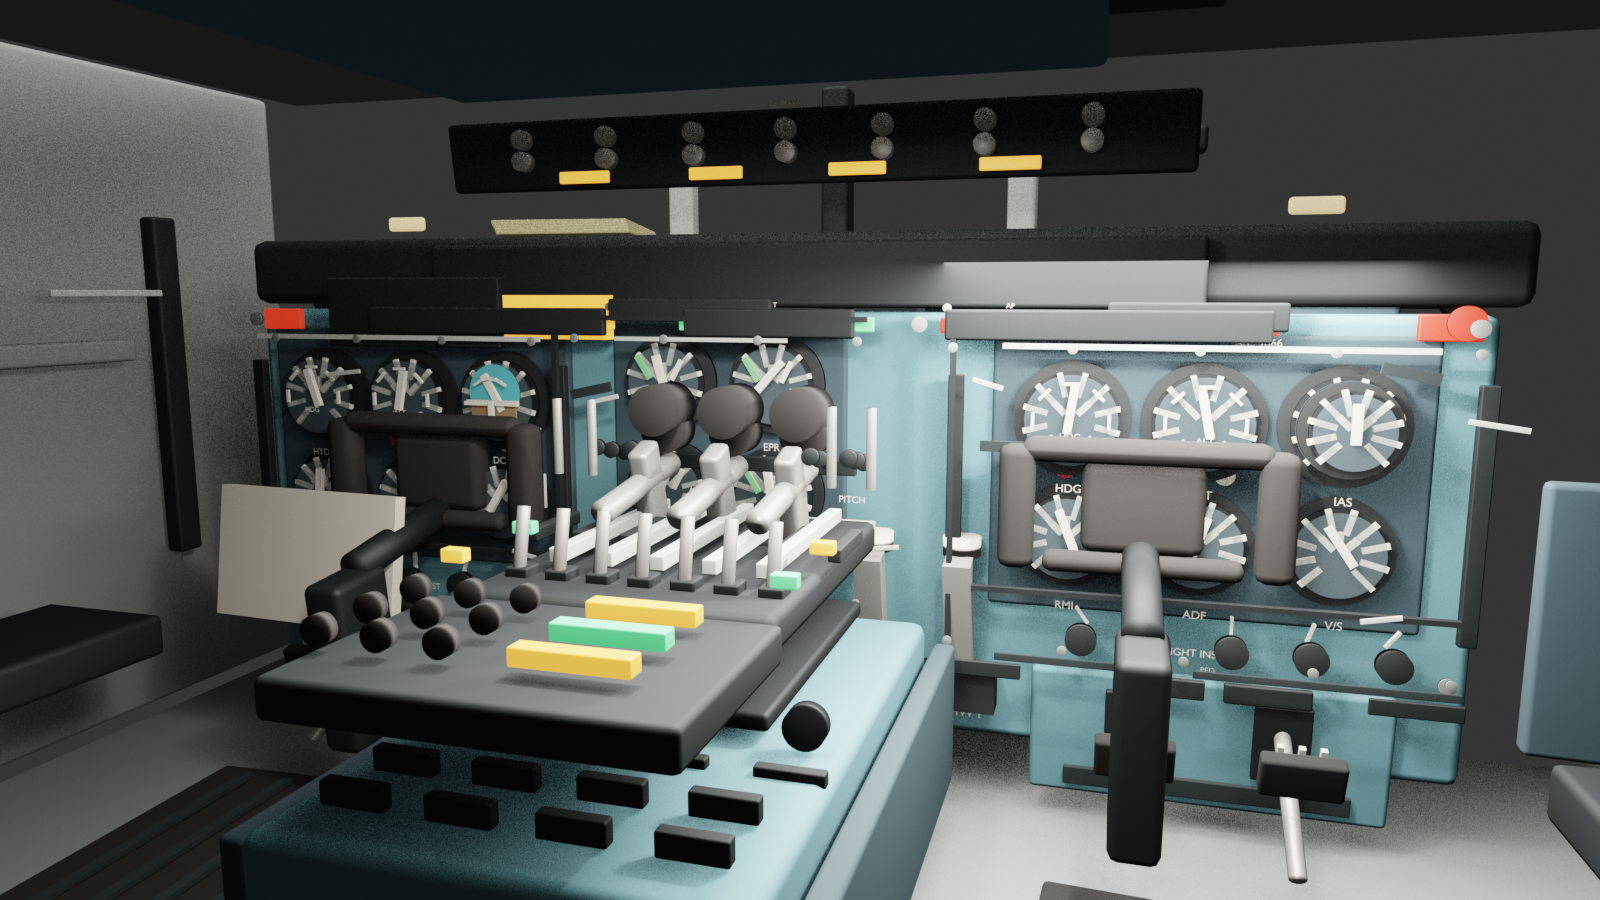
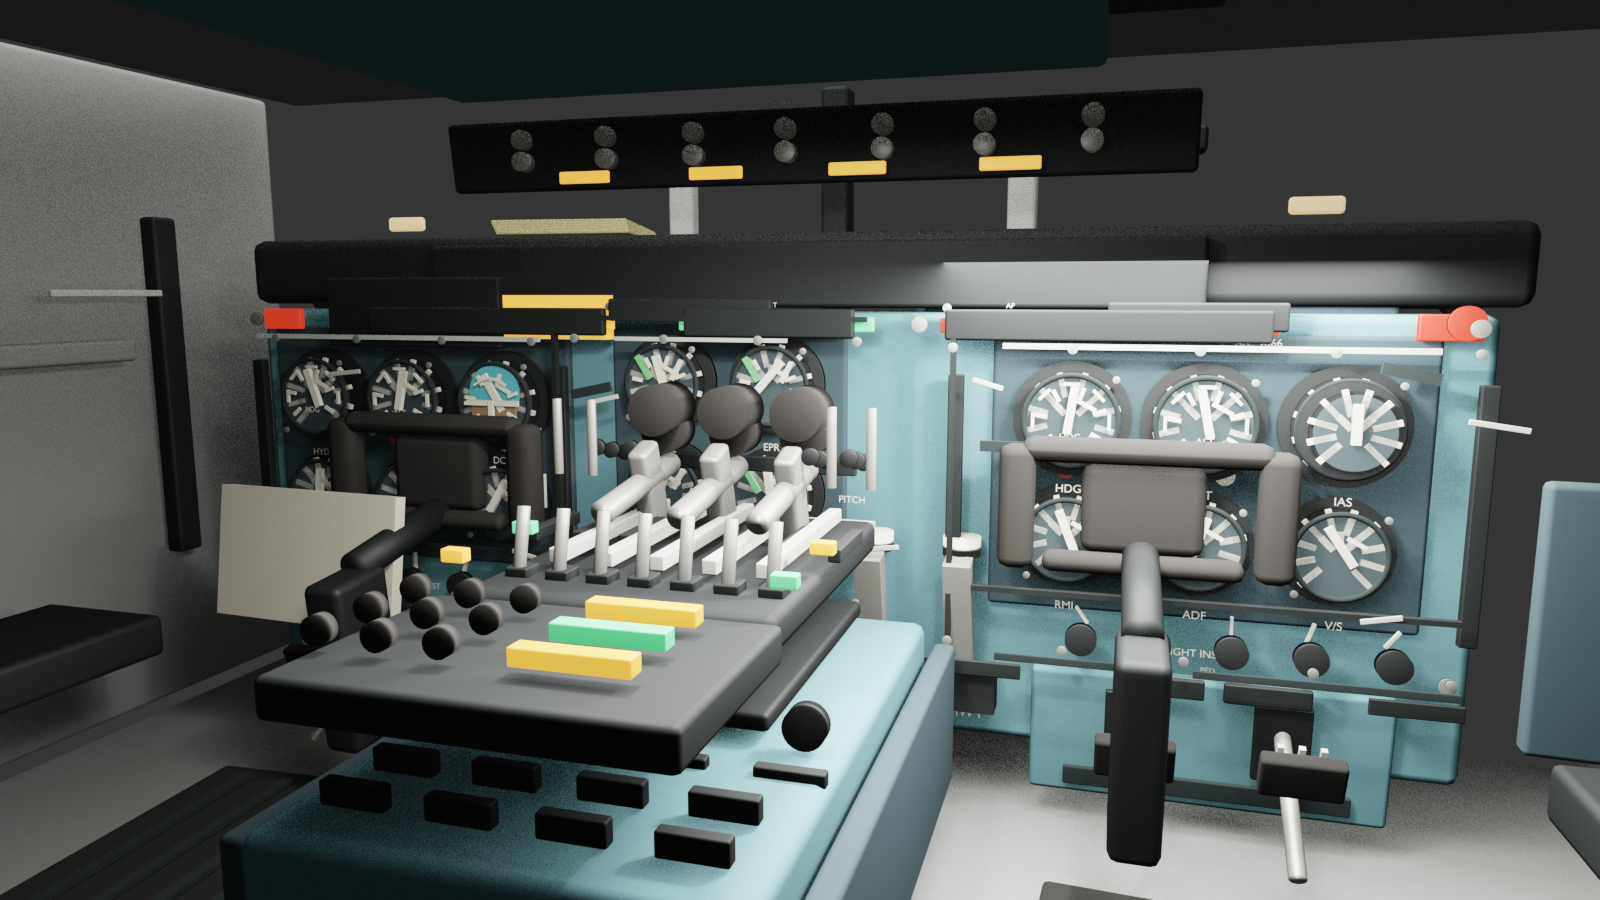
Add DC-9 gauge depth cues

diff --git a/tools/blender/create_dc9_pipeline_proof.py b/tools/blender/create_dc9_pipeline_proof.py
@@ -195,6 +195,51 @@ def add_instrument_face_detail(parent, mat_sky, mat_ground, mat_tick, mat_needle
         cube(f"DC9_ENGINE_GAUGE_WHITE_INDEX_{idx:02d}", parent, (x - 0.045, -0.819, z + 0.035), (0.012, 0.007, 0.054), mat_tick, (0, math.radians(-28), 0))
 
 
+def add_gauge_depth_and_glass_detail(parent, gauge_specs, mat_shadow, mat_tick, mat_glint, mat_screw):
+    for idx, (x, y, z, radius) in enumerate(gauge_specs):
+        lip = torus(
+            f"DC9_GAUGE_INNER_SHADOW_LIP_{idx:02d}",
+            parent,
+            (x, y + 0.069, z),
+            mat_shadow,
+            major=radius * 0.78,
+            minor=0.006,
+            rot=(math.pi / 2, 0, 0),
+        )
+        lip["detail_role"] = "primary_reference_recessed_gauge_depth"
+        glint = cube(
+            f"DC9_GAUGE_GLASS_GLINT_{idx:02d}",
+            parent,
+            (x - radius * 0.25, y + 0.075, z + radius * 0.28),
+            (radius * 0.36, 0.005, 0.009),
+            mat_glint,
+            (0, math.radians(-28), 0),
+        )
+        glint["detail_role"] = "subtle_gauge_glass_response"
+        for screw_idx, (sx, sz) in enumerate([(-0.72, 0.72), (0.72, -0.72)]):
+            screw = cylinder(
+                f"DC9_GAUGE_BEZEL_SCREW_{idx:02d}_{screw_idx:02d}",
+                parent,
+                (x + sx * radius, y + 0.073, z + sz * radius),
+                0.008,
+                0.006,
+                mat_screw,
+                12,
+            )
+            screw["detail_role"] = "primary_reference_gauge_bezel_fastener"
+        if idx in {0, 1, 2, 6, 7, 10, 11, 12}:
+            for mark_idx, angle_deg in enumerate([-120, -70, -20, 30, 80, 130]):
+                angle = math.radians(angle_deg)
+                cube(
+                    f"DC9_GAUGE_FINE_RADIAL_MARK_{idx:02d}_{mark_idx:02d}",
+                    parent,
+                    (x + math.sin(angle) * radius * 0.5, y + 0.078, z + math.cos(angle) * radius * 0.5),
+                    (0.009, 0.005, radius * 0.22),
+                    mat_tick,
+                    (0, angle, 0),
+                )
+
+
 def make_switch(name: str, parent, loc, game_id: str, mat_base, mat_handle, mat_tip):
     base = cube(f"{name}_BASE", parent, loc, (0.18, 0.07, 0.1), mat_base)
     base["game_role"] = "switch_base"
@@ -829,11 +874,14 @@ def create_scene() -> None:
         (0.75, -0.895, 0.7), (1.03, -0.895, 0.7), (1.31, -0.895, 0.7),
         (0.75, -0.895, 0.43), (1.03, -0.895, 0.43), (1.31, -0.895, 0.43),
     ]
+    gauge_depth_specs = []
     for idx, pos in enumerate(gauge_positions):
         radius = 0.118 if idx not in {0, 1, 2, 10, 11, 12} else 0.13
         needle_angle = [-28, 12, -8, 34, -18, 22, -42, 16, 8, -24, 30, -12, 18, -32, 26, -6][idx]
         add_gauge(static, f"DC9_ANALOG_GAUGE_{idx:02d}", pos, radius, dark_mat, face_mat, glass_mat, tick_mat, white_mat, needle_angle=needle_angle)
+        gauge_depth_specs.append((*pos, radius))
     add_gauge(static, "DC9_GAUGE_LEGACY_CODE_01", (-1.26, -0.83, 0.7), 0.1, dark_mat, face_mat, glass_mat, tick_mat, white_mat, "dc9.legacy_power.gauge")
+    add_gauge_depth_and_glass_detail(static, gauge_depth_specs, grime_mat, tick_mat, white_mat, screw_mat)
     add_instrument_face_detail(static, attitude_sky_mat, attitude_ground_mat, tick_mat, white_mat, instrument_green_mat)
     add_instrument_labels(static, tick_mat)
 

diff --git a/asset-reports/dc9-pipeline-proof.md b/asset-reports/dc9-pipeline-proof.md
@@ -27,6 +27,7 @@ Date: 2026-06-22
 - Goal-loop local batch 9: 2026-06-22 yoke-detail realism pass added center badges, thumb buttons, extra checklist linework, metal clips, and worn grip-edge highlights to the captain and first-officer yokes. This remains local; no PR update was opened for this individual iteration.
 - Goal-loop local batch 10: 2026-06-22 panel-surface aging pass added a denser fastener grid, chipped-paint slivers, lower-panel grime feathers, and small service placards across the main panel. This remains local; no PR update was opened for this individual iteration.
 - Goal-loop local batch 11: 2026-06-22 glare-shield annunciator/readout pass added segmented noninteractive upper-panel status modules, amber/red lamps, mode buttons, labels, and screw heads. This remains local; no PR update was opened for this individual iteration.
+- Goal-loop local batch 12: 2026-06-22 gauge-depth and glass-response pass added noninteractive inner gauge shadow lips, subtle glass glints, bezel screws, and fine radial marks around the captain, center, and first-officer instrument clusters. This remains local; no PR update was opened for this individual iteration.
 
 ## Asset Contents
 
@@ -62,6 +63,7 @@ Date: 2026-06-22
   - added yoke badges, red/white thumb-button cues, extra checklist markings, metal clips, and worn grip-edge highlights so the yokes look less like plain blockout bars
   - added a restrained fastener grid, panel chips, grime feathers, and service placards so the blue-grey panel surfaces read as aged aircraft hardware instead of clean flat blocks
   - added segmented glare-shield annunciator/status modules with small lamps, mode buttons, labels, and screws so the upper main-panel area reads denser without becoming one flat overlay strip
+  - added inner gauge shadow lips, small glass glints, bezel screw heads, and fine radial marks so the analog instruments read as recessed hardware with glass response instead of flat circles
 
 ## Runtime Contract
 
@@ -86,9 +88,9 @@ Custom properties exported to glTF extras:
 
 ## GLB Inspection
 
-- GLB size: 3,612,316 bytes / 3.44 MiB
-- Node count: 962
-- Mesh count: 951
+- GLB size: 6,107,876 bytes / 5.82 MiB
+- Node count: 1,074
+- Mesh count: 1,063
 - Material count: 30
 - Animation count: 1
 - Camera count: 1
@@ -117,7 +119,7 @@ Results:
 - `gltf-transform validate` reported no errors and no warnings. It reports info-level unused UV attributes and empty hierarchy nodes; these are expected for this named blockout because UVs are reserved for later texture work and empty hierarchy nodes preserve the asset contract.
 - `npm run assets:check` passed.
 - `npm run check` passed as non-mutating validation; browser integration remains Windows-owned.
-- Manual visual inspection of `preview-renders/dc9-captain-approval.png` confirmed a stronger captain-seat read against the primary DC-9-51 cockpit reference: squared yokes with checklist placards, yoke button/detail cues, readable gauge labels, a visible forward-overhead control band, denser instrument panel, colored attitude-indicator cues, busier primary/engine instrument faces, black mechanical pedestal/throttle/radio-stack detail, glareshield controls, segmented glare-shield annunciator/status modules, windshield/wiper/paper-stack reference cues, recessed instrument trays, side paperwork, subtle seat foreground cues, small eyebrow lamps, clearer cockpit enclosure, visible lower kick panels/rudder-pedal cues, floor scuffing, panel fastener/paint-chip/grime variation, and less flat main-panel presentation.
+- Manual visual inspection of `preview-renders/dc9-captain-approval.png` confirmed a stronger captain-seat read against the primary DC-9-51 cockpit reference: squared yokes with checklist placards, yoke button/detail cues, readable gauge labels, a visible forward-overhead control band, denser instrument panel, colored attitude-indicator cues, deeper analog gauge wells, small glass glints, busier primary/engine instrument faces, black mechanical pedestal/throttle/radio-stack detail, glareshield controls, segmented glare-shield annunciator/status modules, windshield/wiper/paper-stack reference cues, recessed instrument trays, side paperwork, subtle seat foreground cues, small eyebrow lamps, clearer cockpit enclosure, visible lower kick panels/rudder-pedal cues, floor scuffing, panel fastener/paint-chip/grime variation, and less flat main-panel presentation.
 
 ## Known Deviations
 
@@ -135,4 +137,5 @@ Results:
 - The yoke buttons, badges, checklist strips, and wear highlights are proof-stage readability cues; production art should refine the exact yoke casting shape, placard layout, button placement, and grip material against closer DC-9-51 yoke references.
 - The panel-surface aging is intentionally procedural geometry for proof-stage readability. Production art should replace much of it with baked paint wear, accurate screw placement, and real placard typography once the detailed panel model is built.
 - The segmented glare-shield annunciator/status modules are noninteractive proof-stage density cues. Production art should refine exact placement, labeling, lamp colors, and integration with the DC-9 glare-shield and main-panel brow references.
+- The new gauge-depth details use geometry for local approval readability and increase GLB size to 5.82 MiB. Production art should convert much of this fine ring/glint/mark detail to baked instrument textures once the detailed panel model is ready.
 - The browser integration is Windows-owned under `src/**`; this Ubuntu branch only provides the deployable GLB and documented runtime contract.